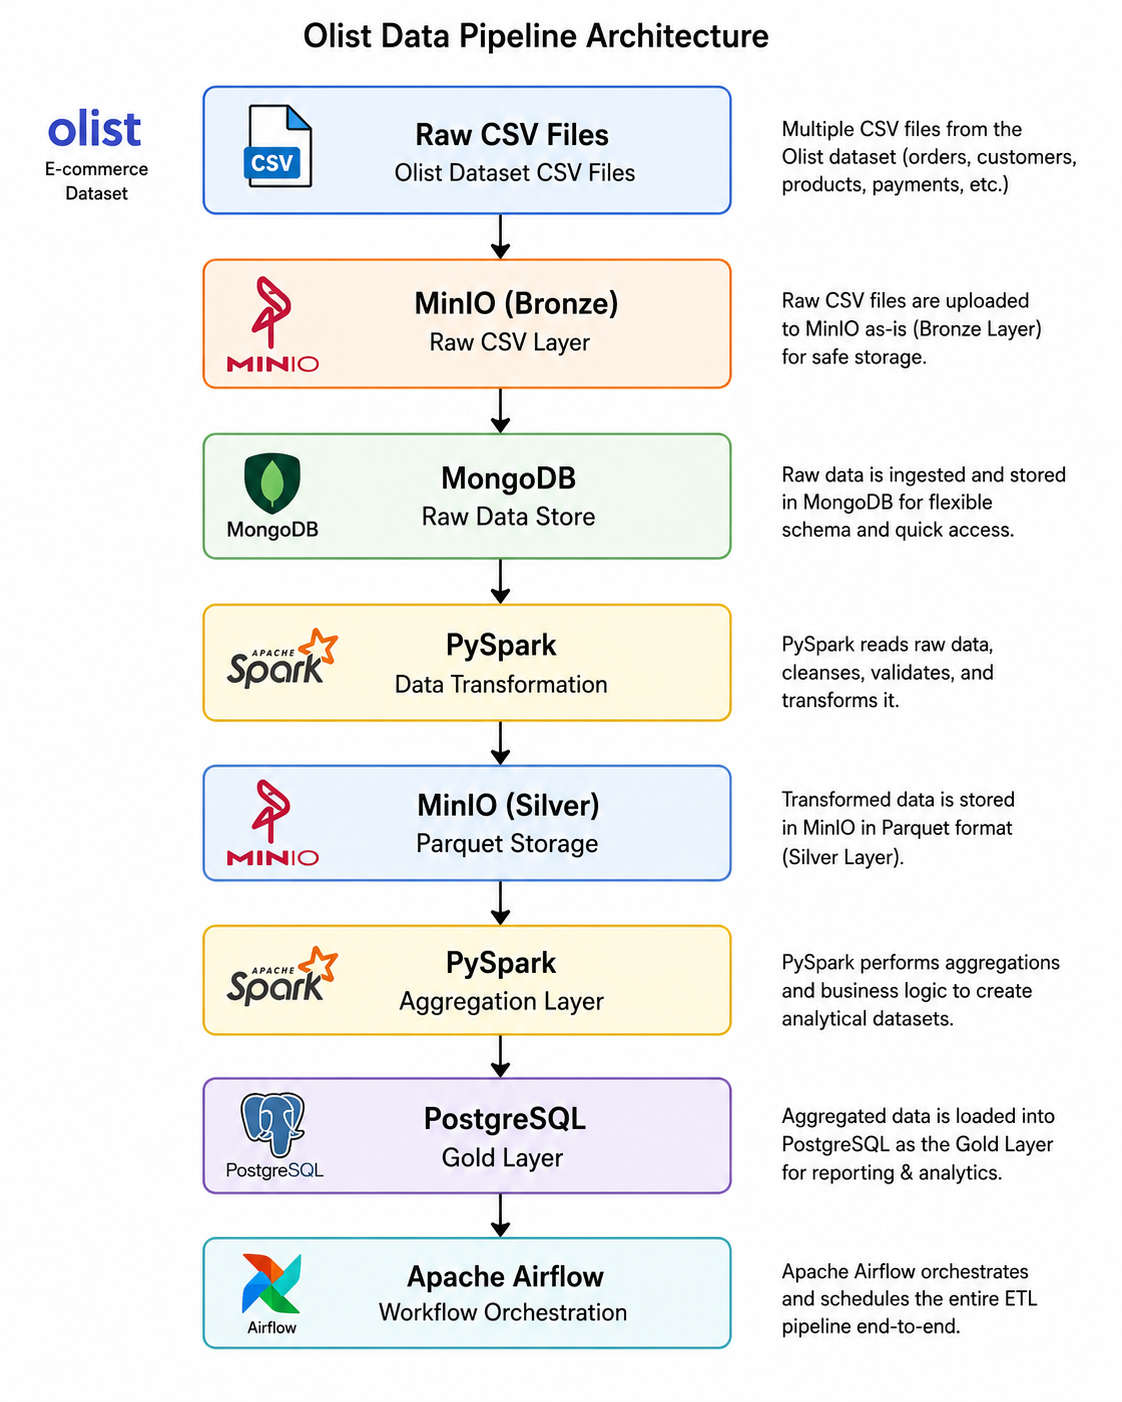
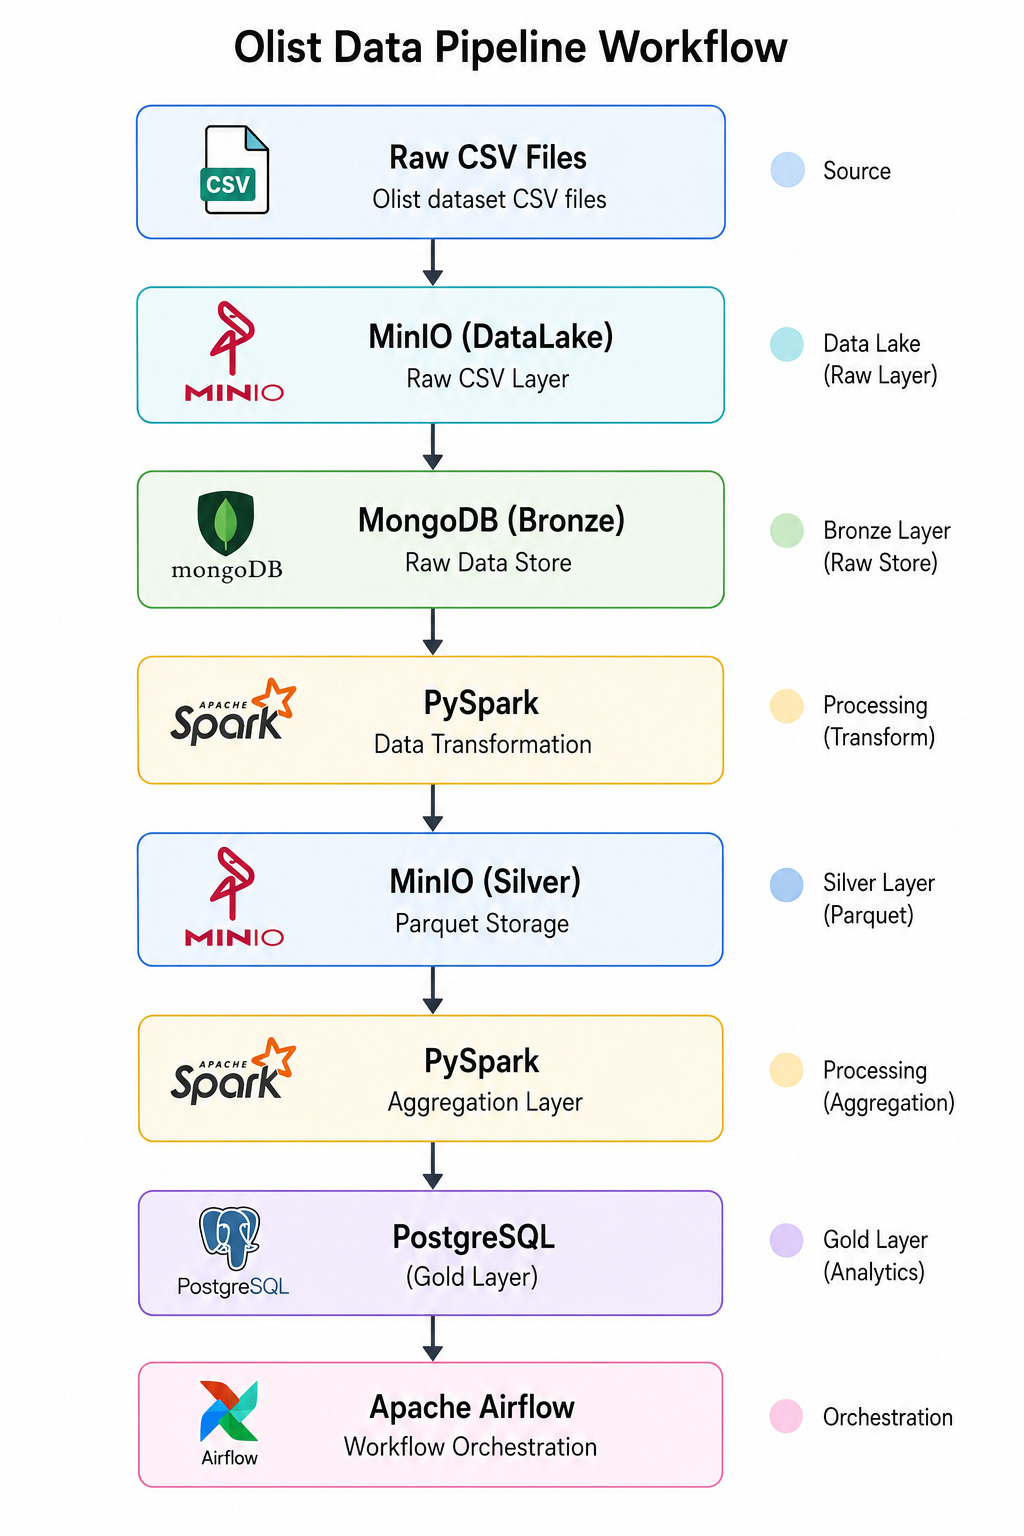
update workflow

diff --git a/README.md b/README.md
@@ -8,13 +8,13 @@
                           |
                           v
                 +-------------------+
-                |  MinIO (Bronze)   |
+                |  MinIO (DataLake) |
                 |   Raw CSV Layer   |
                 +-------------------+
                           |
                           v
                 +-------------------+
-                |     MongoDB       |
+                |  MongoDB (Bronze) |
                 |   Raw Data Store  |
                 +-------------------+
                           |
@@ -39,7 +39,7 @@
                           v
                 +-------------------+
                 |   PostgreSQL      |
-                |    Gold Layer     |
+                |   (Gold Layer)    |
                 +-------------------+
                           |
                           v
